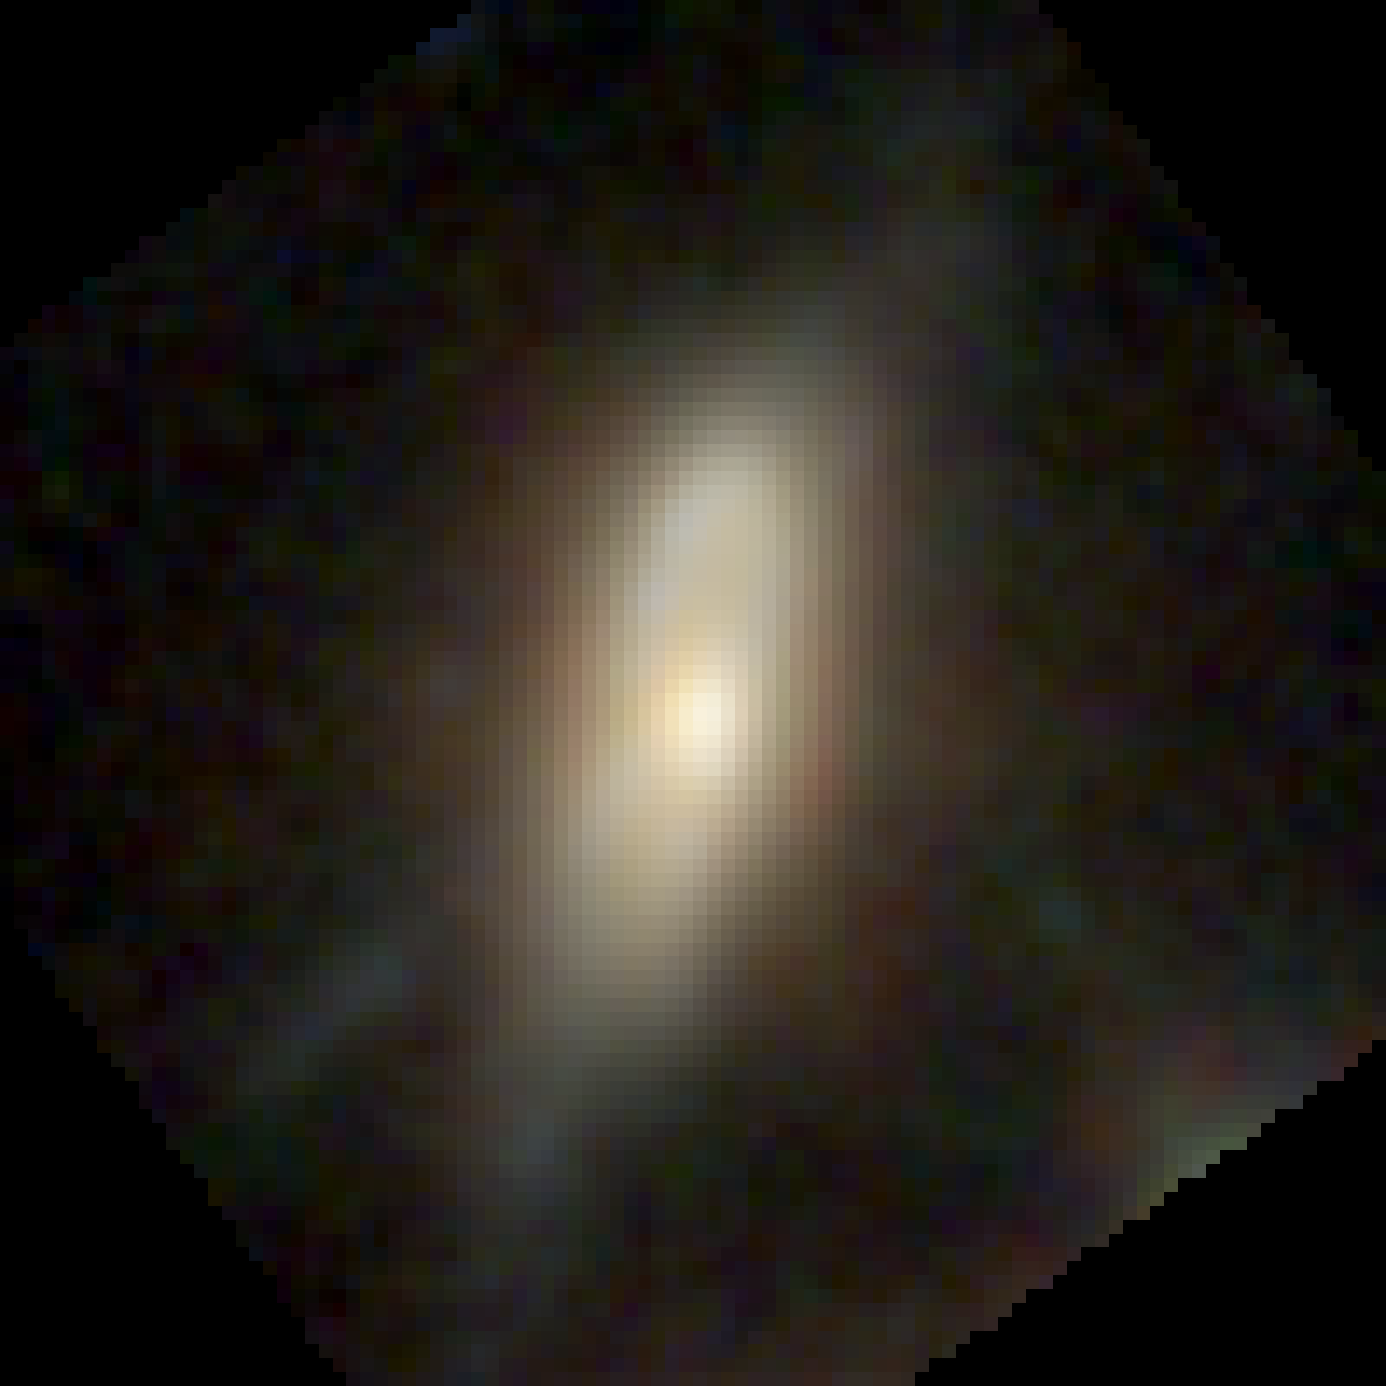
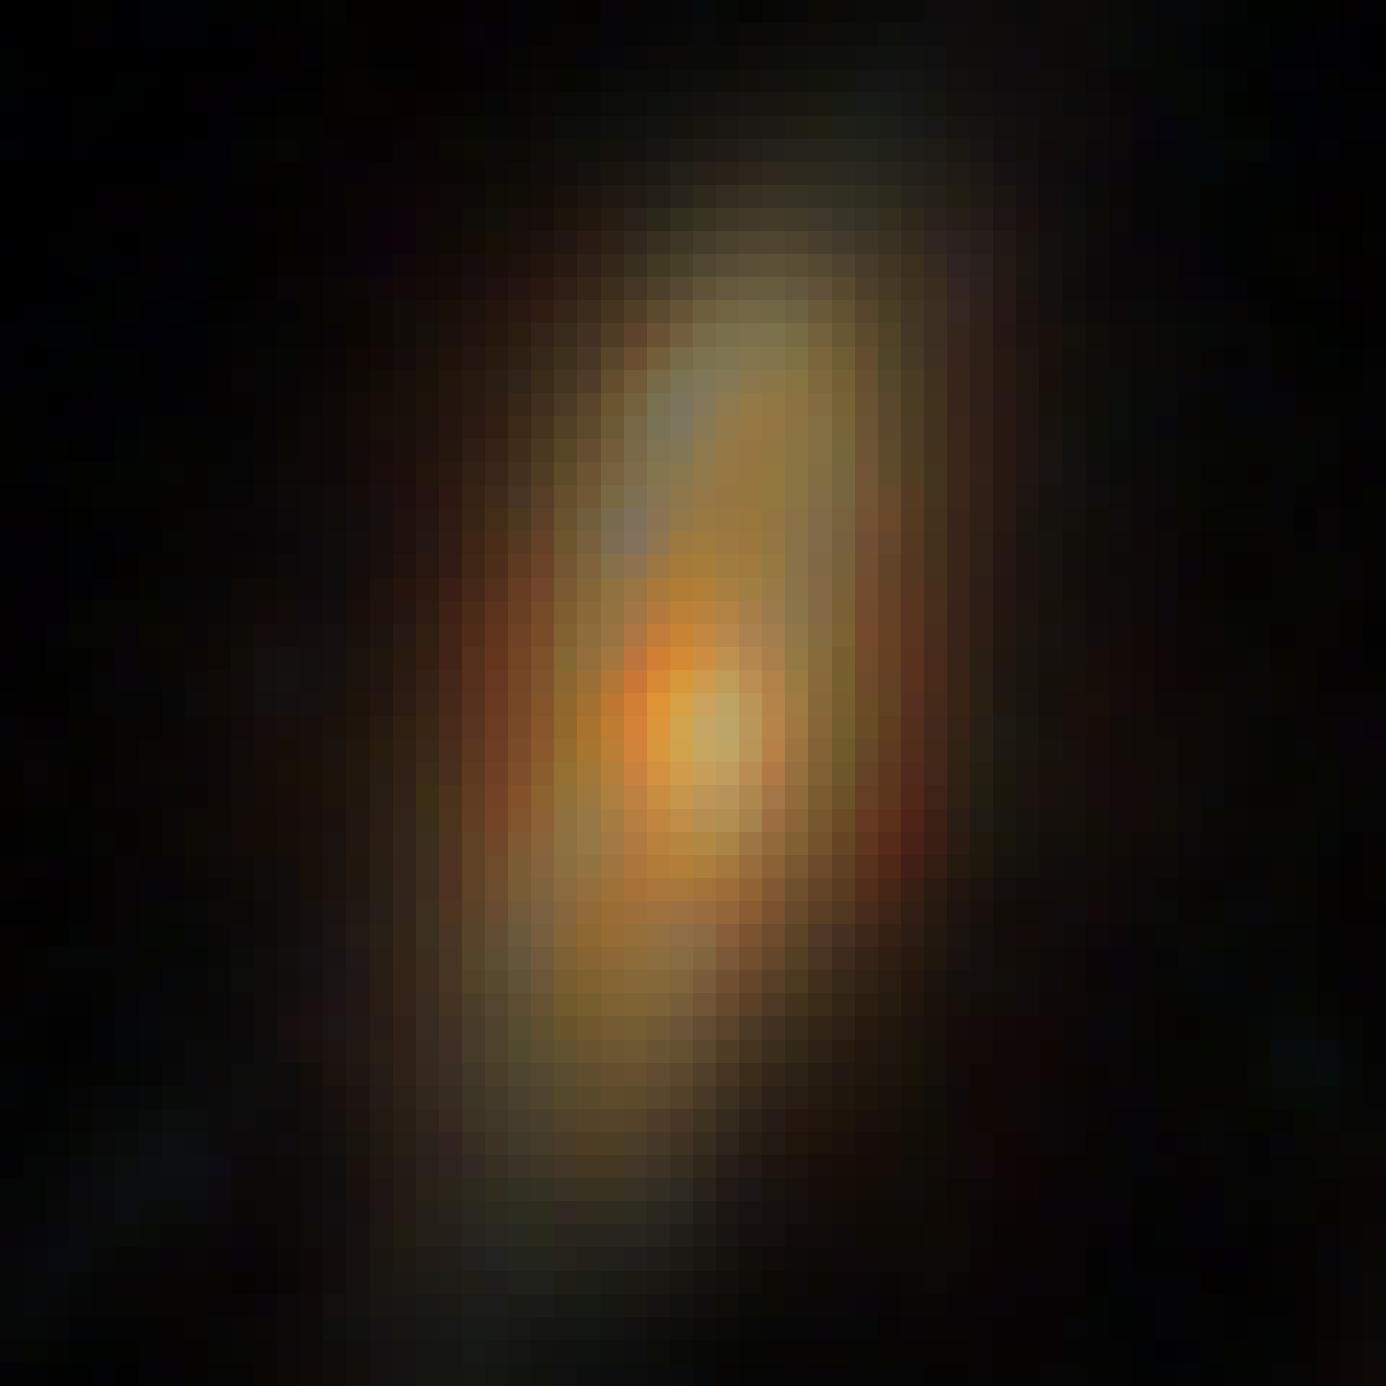
update cutout and geko

diff --git a/sources/21636/index.html b/sources/21636/index.html
@@ -126,7 +126,7 @@
 
     <div class="bg-secondary rounded p-5 mb-5 text-center">
 
-        GEKO results coming soon
+        <img src="21636_summary.png" class="img-fluid rounded shadow">
 
     </div>
 
@@ -136,13 +136,12 @@
         DINGO Results
     </h2>
 
-    <div class="mb-5 text-center">
+    <div class="bg-secondary rounded p-5 text-center">
 
-        <img src="dingo_fit.png"
-             class="img-fluid rounded shadow">
-    
+        <img src="dingo_fit.png" class="img-fluid rounded shadow">
+
     </div>
-    
+
 </div>
 
 </body>